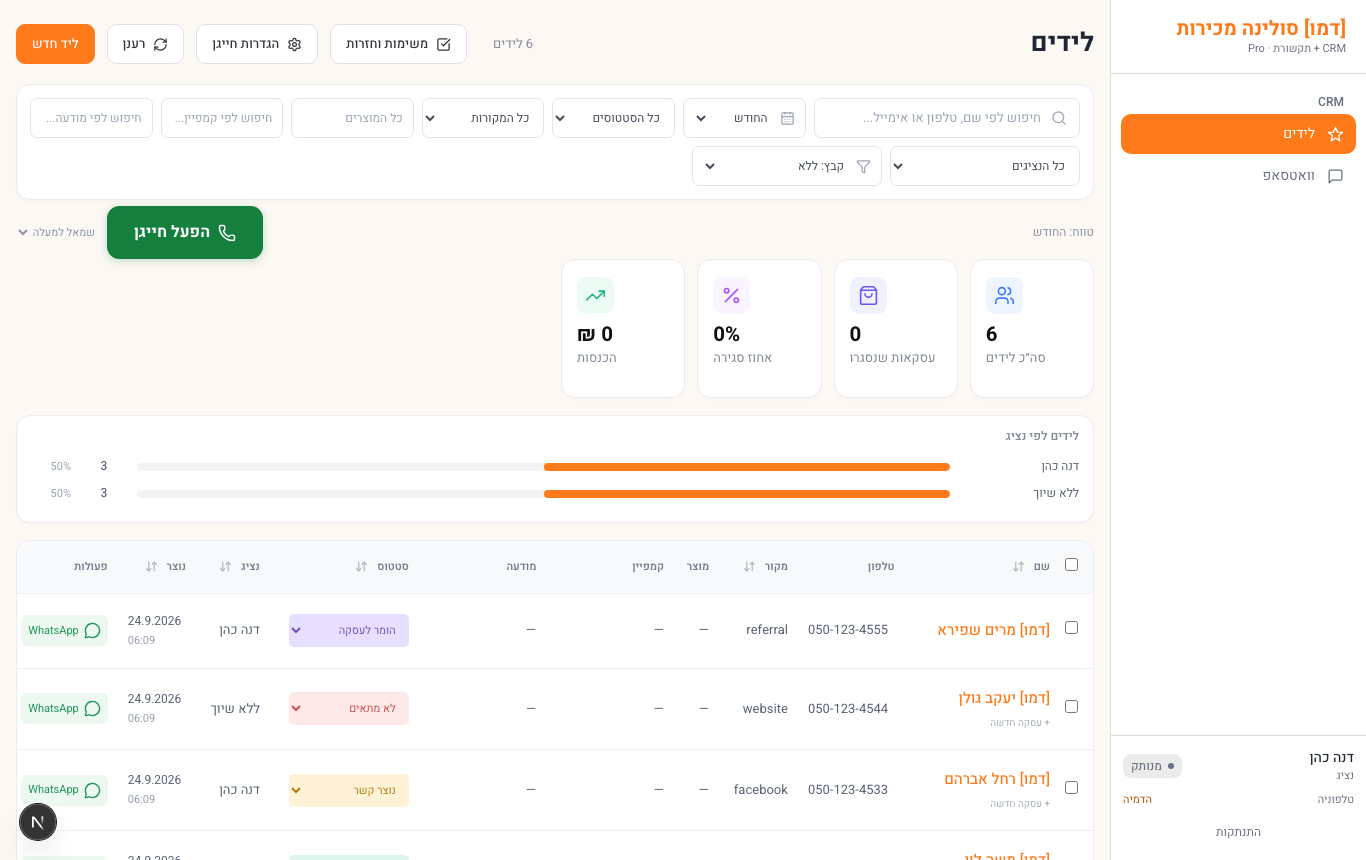
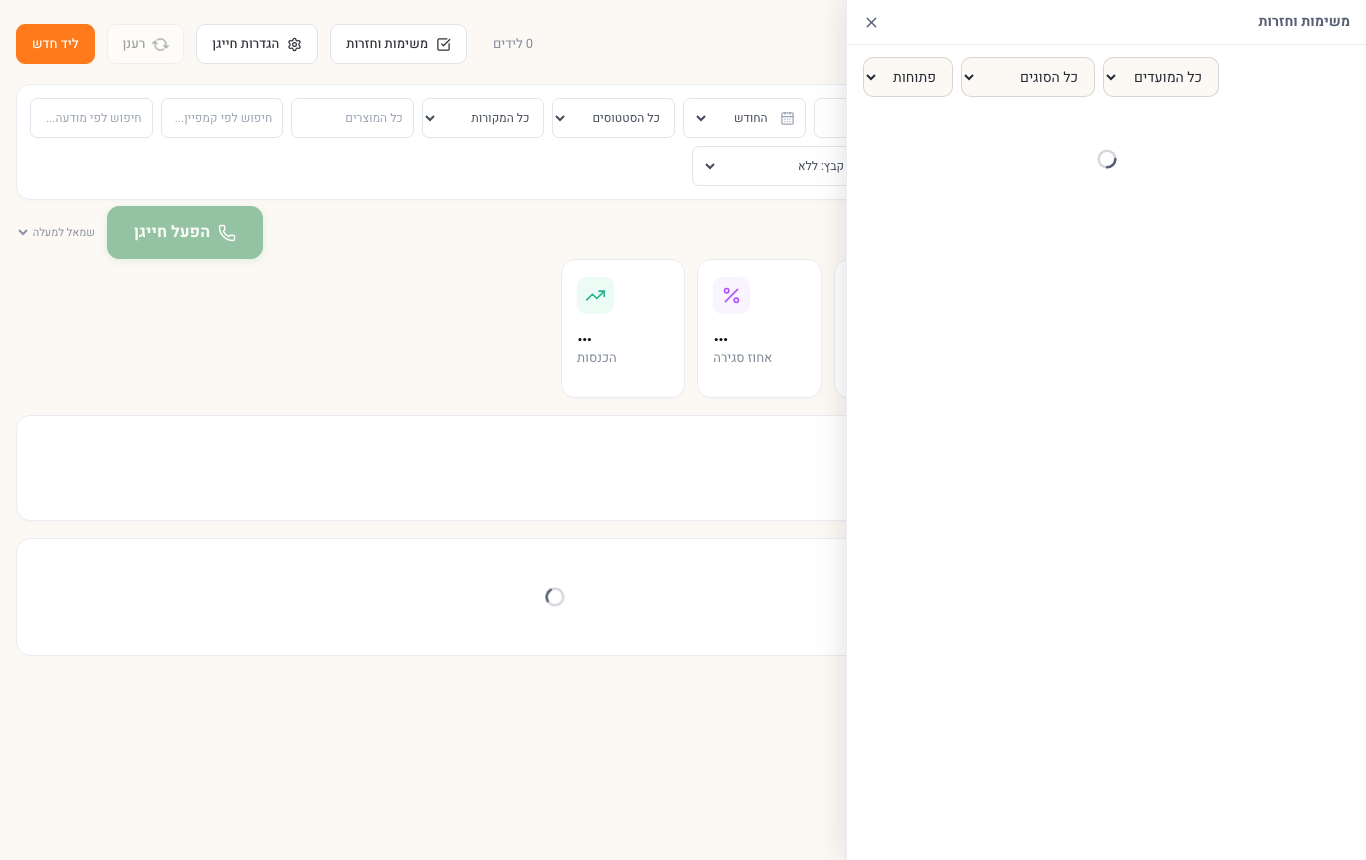
docs(qa): final-product QA results; QA scripts skip DNC leads and check the queue tab structurally

diff --git a/docs/FINAL_PRODUCT.md b/docs/FINAL_PRODUCT.md
@@ -19,4 +19,6 @@
 ## מה נבדק
 - `npx tsc --noEmit` נקי; eslint על הקבצים שנגעו – 0 שגיאות.
 - אינטגרציה על מסד אמיתי: `lead-distribution.test.ts` 3/3 (סטטוסים: מנהל עורך, נציג 403, מפתח לא חוקי 400; round robin a1,a2,a1,a2 ואז ללא שיוך בתקרה 2, נציג מחוץ לסבב לא מקבל; `?listId=` מחזיר רק את אנשי הקשר של הרשימה), `events.test.ts` 6/6 (הנתיב הישן של שיוך נשאר), `coach-chat.test.ts` 3/3.
-- דפדפן (`scripts/qa-final-product.mjs`, מנהל + נציג) – תוצאות בסיכום המסירה.
+- דפדפן מול הפריסה בפרודקשן (`scripts/qa-final-product.mjs https://ultracrm-eta.vercel.app`, 2026-09-26): כל 15 השלבים עברו (F0–F11 מנהל, A1–A3 נציג). ההרצות התפצלו לכמה ריצות (`QA_ONLY=...`) בגלל ניתוקי רשת מהמחשב המקומי (net::ERR_TIMED_OUT / ETIMEDOUT) – לא כשלי קוד. שלושה תיקונים יצאו מה-QA: מודאלים נסגרים ב-Escape, החייגן הצף מתחיל מתחת לכותרת העמוד (לא מכסה את "הגדרות חייגן"/"משימות"), ובדיקת רשימת החיוג.
+- צ׳אט המאמן בדפדפן (`scripts/qa-coach.mjs` מול שרת מקומי עם `COACH_PROVIDER=mock`): C0–C3b עברו – שיחה ידנית מתוך /leads, כרטיס המאמן, המלצה על התנגדות, ו-**C3b**: שאלה חופשית → משפט להגיד + המשך + שורת המקורות ("ללא תמלול – לפי מה שכתבת" / "N שורות תמלול") + כפתור העתקה; שאלת המשך באותה שיחה; X סוגר בלי לנתק; ההיסטוריה נשמרת. C4–C6 (למידה אחרי ניתוק, מסך אישור למנהל, כיבוי לנציג) לא עברו בריצה זו – הסלקטורים שלהם נכתבו למסך השיחה הישן; אותם תהליכים מכוסים ב-`tests/integration/coach.test.ts` (6/6).
+- הערת סביבה: בשרת הפיתוח המקומי Neon מנתק חיבורים מדי פעם ("Connection terminated unexpectedly") ואז בקשות נתקעות דקות; בפרודקשן (fra1) לא נצפה.
